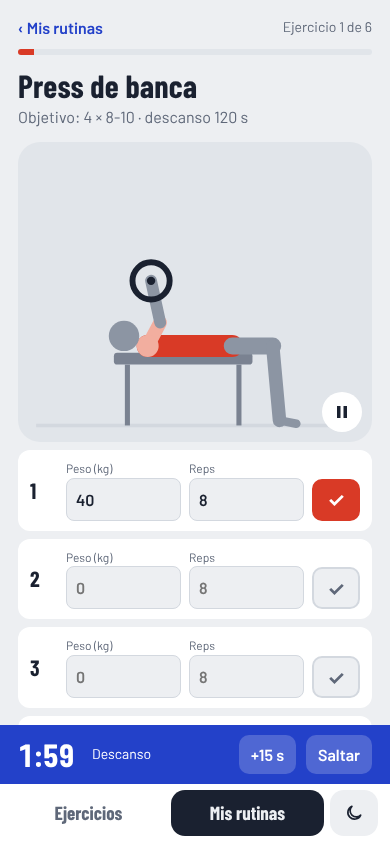
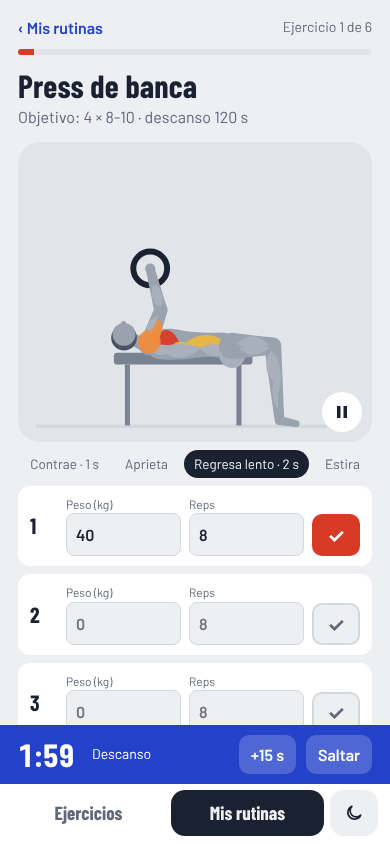
Entrega 2: figura humana animada, mapa del cuerpo más realista, ritmo guiado y video propio
Claude-Session: https://claude.ai/code/session_014wTSUvWtMSXUgSCxRBmyqL

diff --git a/www/index.html b/www/index.html
@@ -16,13 +16,13 @@
   --chalk:#EDEFF2; --paper:#FFFFFF; --plate:#E1E5EA; --ink:#1A2130; --steel:#5F6879;
   --line:#D3D8DF; --muscle:#D93A26; --muscle2:#F28C38; --body:#C3CAD4; --cobalt:#2341C9;
   --r-s:8px; --r-m:14px; --r-l:22px;
-  --muscle3:#EDB93C; --hover:#AEB6C2; --hoverp:#B92E1C; --dangerbg:#FBE5E1; --danger:#A3271A; --fig:#8C95A3; --prop:#7A8291;
+  --muscle3:#EDB93C; --hover:#AEB6C2; --hoverp:#B92E1C; --dangerbg:#FBE5E1; --danger:#A3271A; --fig:#9AA2AE; --figm:#A9B0BB; --hair:#4A5263; --prop:#7A8291;
   color-scheme:light;
 }
 [data-theme="dark"]{
   --chalk:#1C2028; --paper:#262B34; --plate:#2E343E; --ink:#E9ECF1; --steel:#9CA5B4;
   --line:#3B424E; --muscle:#F0533C; --muscle2:#D9782E; --body:#4A5261; --cobalt:#7089FF;
-  --muscle3:#B98A2A; --hover:#5D6676; --hoverp:#FF7560; --dangerbg:#3D2522; --danger:#FF9C8C; --fig:#6E7788; --prop:#8992A2;
+  --muscle3:#B98A2A; --hover:#5D6676; --hoverp:#FF7560; --dangerbg:#3D2522; --danger:#FF9C8C; --fig:#5F6878; --figm:#6A7384; --hair:#2A303A; --prop:#8992A2;
   color-scheme:dark;
 }
 *{box-sizing:border-box;margin:0;padding:0}
@@ -46,6 +46,8 @@ h1,h2,h3,.cond{font-family:"Barlow Condensed",sans-serif;letter-spacing:.005em}
 .map svg{width:100%;max-width:190px;height:auto;display:block}
 .map span{font-family:"Barlow Condensed";font-weight:600;font-size:15px;color:var(--steel);margin-top:2px}
 .b{fill:var(--body)}
+.b path{stroke:var(--plate);stroke-width:.5;stroke-linejoin:round}
+.m{stroke-linejoin:round}
 .m{fill:var(--body);stroke:var(--plate);stroke-width:.7;transition:fill .18s}
 .m.p{fill:var(--muscle)}
 .m.s{fill:var(--muscle2)}
@@ -73,6 +75,15 @@ h1,h2,h3,.cond{font-family:"Barlow Condensed",sans-serif;letter-spacing:.005em}
 .anim svg{width:100%;height:auto;display:block;max-height:300px}
 .anim .play{position:absolute;right:10px;bottom:10px;width:40px;height:40px;border-radius:50%;background:var(--paper);display:grid;place-items:center;color:var(--ink)}
 .anim .play svg{width:16px;height:16px}
+.tempo{display:flex;gap:6px;flex-wrap:wrap;justify-content:center;margin-top:8px}
+.tempo span{font-size:13.5px;padding:4px 10px;border-radius:999px;background:var(--chalk);color:var(--steel);transition:background .15s,color .15s}
+.tempo span.on{background:var(--ink);color:var(--chalk)}
+.anim video{width:100%;max-height:360px;border-radius:14px;display:block;background:#000}
+#vidbar{margin-top:10px;text-align:center}
+.vbtn{margin-top:0;cursor:pointer}
+.seg{display:inline-flex;background:var(--chalk);border-radius:12px;padding:3px}
+.seg button{padding:8px 16px;border-radius:10px;font-weight:600;color:var(--steel)}
+.seg button[aria-pressed="true"]{background:var(--paper);color:var(--ink)}
 .fig-note{font-size:13px;color:var(--steel);margin-top:6px;text-align:center}
 .m.hit:focus{outline:none}
 .m.hit:focus-visible{stroke:var(--cobalt);stroke-width:1.6}
@@ -432,14 +443,12 @@ const EXMAP=Object.fromEntries(EX.map(e=>[e.id,e]));
 const mir=s=>[s,s.replace(/^<(\w+)/,'<$1 transform="translate(100,0) scale(-1,1)"')];
 const P=d=>mir(`<path d="${d}"/>`);
 const E=(cx,cy,rx,ry,rot=0)=>mir(`<ellipse cx="${cx}" cy="${cy}" rx="${rx}" ry="${ry}"${rot?` transform="rotate(${rot} ${cx} ${cy})"`:''}/>`);
-const BASE=[
- '<ellipse cx="50" cy="12" rx="7.2" ry="8.6"/>','<rect x="45.5" y="18" width="9" height="10" rx="2"/>',
- '<path d="M37 27 Q50 24 63 27 L66.5 34 Q66 58 64 70 Q63 80 64 88 L36 88 Q37 80 36 70 Q34 58 33.5 34 Z"/>',
- '<path d="M36 86 L64 86 Q67.5 96 64.5 104 L50 110 L35.5 104 Q32.5 96 36 86 Z"/>',
- ...E(30,48,5.2,15,8),...E(26.2,73,4.4,12.5,6),...E(24,91,3.3,4.6),
- ...P('M35.6 98 Q34.6 120 38.3 141 L46.6 141 Q49.6 120 49.6 104 Z'),...E(42.4,144,4.7,4.6),
- ...P('M38 146 Q36.8 160 39.5 178 L44.8 178 Q47.6 160 47 146 Z'),...E(42.2,182.5,4.8,3)
-];
+// smooth anatomical silhouette (left half mirrored)
+function crPath(pts){let d=`M${pts[0][0]} ${pts[0][1]}`;for(let i=0;i<pts.length-1;i++){const p0=pts[i-1]||pts[i],p1=pts[i],p2=pts[i+1],p3=pts[i+2]||p2;
+  const c1=[p1[0]+(p2[0]-p0[0])/6,p1[1]+(p2[1]-p0[1])/6],c2=[p2[0]-(p3[0]-p1[0])/6,p2[1]-(p3[1]-p1[1])/6];d+=` C${c1[0].toFixed(2)} ${c1[1].toFixed(2)} ${c2[0].toFixed(2)} ${c2[1].toFixed(2)} ${p2[0]} ${p2[1]}`}return d}
+const HALF=[[50,19.6],[45.8,20.4],[45.3,26],[38.4,28.4],[32,30.6],[28.4,35.4],[26.8,44],[25.8,53.4],[24,62],[22.4,72],[21.6,83],[20.4,88.6],[21.2,94.6],[23.8,96.6],[25.8,94],[26.6,86],[28.6,76],[30.4,66],[32.2,57],[34.2,47.6],[35.4,41.6],[35.6,50],[36.6,62],[36.2,74],[35,84],[34.4,94],[35,108],[36.6,124],[38,138],[37.8,146],[37.4,156],[38.8,168],[39.6,177],[37.4,182],[37.2,185.4],[44.8,185.6],[45.4,180],[45.6,174],[46.8,162],[46.8,150],[46.4,142],[48.2,128],[49.2,114],[50,106.4]];
+const SIL=crPath(HALF)+' '+crPath(HALF.slice().reverse().map(([x,y])=>[100-x,y])).replace(/^M[^C]*/,'')+'Z';
+const BASE=['<ellipse cx="50" cy="11.6" rx="7" ry="8.6"/>',`<path d="${SIL}"/>`];
 const SHAPES={
  front:{
   trap_sup:P('M45.3 22 L45.8 28.4 L38.5 29.6 Z'),
@@ -528,6 +537,7 @@ const PAT={
  lunge:{v:'s',extra:[['hp','kn2','th'],['kn2','an2','sn'],['an2','ft2','ft']],A:{hd:[100,22],nk:[100,38],hp:[100,82],kn:[116,108],an:[122,138],ft:[132,140],kn2:[90,110],an2:[80,136],ft2:[72,140],el:[100,60],ha:[100,80]},B:{hd:[100,44],nk:[100,60],hp:[100,104],kn:[126,112],kn2:[98,134],an2:[72,134],ft2:[64,140],el:[100,82],ha:[100,102]}},
  hipthrust:{v:'s',A:{hd:[46,82],nk:[60,92],hp:[96,124],kn:[128,106],an:[134,138],ft:[144,140],el:[78,112],ha:[96,118]},B:{hd:[48,84],nk:[62,92],hp:[98,92],kn:[130,94],el:[80,94],ha:[98,86]},props:()=>bench(22,96,40)},
  abductor:{v:'f',A:{hd:[100,30],nk:[100,46],hp:[100,88],sL:[86,50],sR:[114,50],eL:[80,70],hL:[84,88],eR:[120,70],hR:[116,88],pL:[92,90],pR:[108,90],kL:[92,108],aL:[92,138],kR:[108,108],aR:[108,138]},B:{kL:[62,104],aL:[58,134],kR:[138,104],aR:[142,134]},props:()=>`<rect x="82" y="92" width="36" height="6" rx="2" fill="var(--prop)"/>`},
+ seatedcalf:{v:'s',A:{hd:[96,30],nk:[96,46],hp:[94,92],kn:[126,92],an:[128,128],ft:[140,130],el:[100,70],ha:[116,88]},B:{an:[129,121]},props:P=>bench(78,96,40)+`<rect x="118" y="${(P.kn[1]-12).toFixed(1)}" width="18" height="5" rx="2" fill="var(--prop)"/><rect x="128" y="130" width="22" height="4" fill="var(--prop)"/>`},
  toeraise:{v:'s',A:{...SB},B:{ft:[108,128]},props:()=>`<line x1="84" y1="0" x2="84" y2="141" stroke="var(--prop)" stroke-width="4"/>`},
  glutebridge:{v:'s',A:{hd:[44,132],nk:[60,134],hp:[100,134],kn:[128,108],an:[136,138],ft:[146,140],el:[80,140],ha:[98,140]},B:{nk:[60,132],hp:[100,106],kn:[130,104],el:[80,138],ha:[98,138]}},
  calf:{v:'s',A:{...SB},B:{hd:[100,15],nk:[100,31],hp:[100,75],kn:[100,103],an:[100,131],el:[100,53],ha:[100,73]},props:()=>`<rect x="104" y="141" width="30" height="6" fill="var(--prop)"/>`},
@@ -540,50 +550,207 @@ const PAT={
  twist:{v:'f',A:{hp:[100,104],pL:[92,104],pR:[108,104],kL:[80,86],aL:[70,112],kR:[120,86],aR:[130,112],hd:[84,42],nk:[90,58],sL:[78,62],sR:[102,56],eL:[74,80],hL:[72,96],eR:[92,80],hR:[78,96]},B:{hd:[116,42],nk:[110,58],sL:[98,56],sR:[122,62],eL:[108,80],hL:[122,96],eR:[126,80],hR:[128,96]}},
  woodchop:{v:'f',A:{...FB,nk:[104,36],hd:[106,20],sL:[90,38],sR:[118,42],eL:[118,22],hL:[140,8],eR:[130,30],hR:[144,10]},B:{nk:[96,38],hd:[94,22],sL:[84,42],sR:[110,38],eL:[80,64],hL:[66,88],eR:[84,66],hR:[70,90]},cable:[[192,-16]]}
 };
-const EXPAT={'press-banca':'bench','press-inclinado':'bench',aperturas:'fly',fondos:'dip',flexiones:'pushup','cruce-poleas':'cablefly',dominadas:'pullup',jalon:'pulldown','remo-barra':'rowbent','remo-mancuerna':'rowbent','remo-polea':'rowseat','peso-muerto':'deadlift',encogimientos:'shrug','press-militar':'ohp',laterales:'lateral',pajaros:'lateral','face-pull':'facepull','curl-barra':'curl','curl-martillo':'curl','curl-concentrado':'curl','triceps-polea':'pushdown','press-frances':'skull','patada-triceps':'kickback','curl-muneca':'wrist',sentadilla:'squat',prensa:'legpress',zancadas:'lunge','extension-cuad':'legext','curl-femoral':'legcurl','peso-muerto-rumano':'deadlift','hip-thrust':'hipthrust','aductores-maq':'adductor',talones:'calf',bulgara:'lunge',plancha:'plank',crunch:'crunch','elev-piernas':'hangleg','russian-twist':'twist',hiperextensiones:'hinge',lenador:'woodchop',goblet:'squat','sentadilla-libre':'squat','press-hombro-manc':'ohp','rumano-manc':'deadlift','puente-gluteo':'glutebridge','talones-sentado':'calf',abduccion:'abductor','elev-puntas':'toeraise'};
-const PART={to:['pec_sup','pec_inf','serrato','dorsal','recto','oblicuos','erectores','trap_sup','trap_med','romboides'],ua:['biceps','braquial','triceps'],la:['ante_flex','ante_ext'],th:['cuadriceps','isquios','gluteo_may','gluteo_med','aductores'],sn:['gemelos','soleo','tibial'],ft:['tibial']};
-const W={to:13,ua:8,la:7,th:10,sn:8,ft:5};
-function figSVG(ex,t){
-  const pat=PAT[EXPAT[ex.id]];
-  const P={};for(const k in pat.A){const a=pat.A[k],b=(pat.B[k]||a);P[k]=[a[0]+(b[0]-a[0])*t,a[1]+(b[1]-a[1])*t]}
-  const lv=ks=>ks.some(k=>ex.p.includes(k))?'var(--muscle)':ks.some(k=>ex.s.includes(k))?'var(--muscle2)':ks.some(k=>ex.e.includes(k))?'var(--muscle3)':null;
-  const col=part=>lv(PART[part])||'var(--fig)';
-  let o=`<svg viewBox="0 -22 200 168" role="img" aria-label="Animación de ${esc(ex.n)}"><line x1="6" y1="141" x2="194" y2="141" stroke="var(--line)" stroke-width="2"/>`;
+const EXPAT={'press-banca':'bench','press-inclinado':'bench',aperturas:'fly',fondos:'dip',flexiones:'pushup','cruce-poleas':'cablefly',dominadas:'pullup',jalon:'pulldown','remo-barra':'rowbent','remo-mancuerna':'rowbent','remo-polea':'rowseat','peso-muerto':'deadlift',encogimientos:'shrug','press-militar':'ohp',laterales:'lateral',pajaros:'lateral','face-pull':'facepull','curl-barra':'curl','curl-martillo':'curl','curl-concentrado':'curl','triceps-polea':'pushdown','press-frances':'skull','patada-triceps':'kickback','curl-muneca':'wrist',sentadilla:'squat',prensa:'legpress',zancadas:'lunge','extension-cuad':'legext','curl-femoral':'legcurl','peso-muerto-rumano':'deadlift','hip-thrust':'hipthrust','aductores-maq':'adductor',talones:'calf',bulgara:'lunge',plancha:'plank',crunch:'crunch','elev-piernas':'hangleg','russian-twist':'twist',hiperextensiones:'hinge',lenador:'woodchop',goblet:'squat','sentadilla-libre':'squat','press-hombro-manc':'ohp','rumano-manc':'deadlift','puente-gluteo':'glutebridge','talones-sentado':'seatedcalf',abduccion:'abductor','elev-puntas':'toeraise'};
+/* ---------- Human figure engine ---------- */
+const CON_A=['squat','pushup','dip','lunge','fly','legpress'];
+const FACE_DOWN=['pushup','plank','legcurl','hinge'];
+const CHAINS_S=[['nk','el','ha'],['hp','kn','an'],['hp','kn2','an2']],TIPS_S=[['nk','hd'],['an','ft'],['an2','ft2'],['ha','tp']];
+const CHAINS_F=[['sL','eL','hL'],['sR','eR','hR'],['pL','kL','aL'],['pR','kR','aR']],TIPS_F=[['nk','hd']];
+const V={add:(a,b)=>[a[0]+b[0],a[1]+b[1]],sub:(a,b)=>[a[0]-b[0],a[1]-b[1]],mul:(a,k)=>[a[0]*k,a[1]*k],len:a=>Math.hypot(a[0],a[1]),ang:a=>Math.atan2(a[1],a[0]),lerp:(a,b,t)=>[a[0]+(b[0]-a[0])*t,a[1]+(b[1]-a[1])*t],pol:(a,l)=>[Math.cos(a)*l,Math.sin(a)*l],cross:(a,b)=>a[0]*b[1]-a[1]*b[0]};
+const same=(a,b)=>Math.abs(a[0]-b[0])<.01&&Math.abs(a[1]-b[1])<.01;
+function angLerp(a,b,t){let d=b-a;while(d>Math.PI)d-=2*Math.PI;while(d<-Math.PI)d+=2*Math.PI;return a+d*t}
+function pose(pat,t){
+  const A=pat.A,B={...pat.A,...pat.B},P={},f=pat.v==='f';
+  const chains=f?CHAINS_F:CHAINS_S,tips=f?TIPS_F:TIPS_S,dep=new Set();
+  chains.forEach(c=>{if(A[c[1]]){dep.add(c[1]);dep.add(c[2])}});tips.forEach(([p,c])=>{if(A[c])dep.add(c)});
+  for(const k in A) if(!dep.has(k)) P[k]=V.lerp(A[k],B[k],t);
+  if(!f&&A.hp&&A.nk){ // keep the torso length
+    const L=(V.len(V.sub(A.nk,A.hp))+V.len(V.sub(B.nk,B.hp)))/2,a=angLerp(V.ang(V.sub(A.nk,A.hp)),V.ang(V.sub(B.nk,B.hp)),t);
+    if(same(A.hp,B.hp))P.nk=V.add(P.hp,V.pol(a,L));
+    else if(same(A.nk,B.nk))P.hp=V.sub(P.nk,V.pol(a,L));
+    else{const c=V.lerp(V.lerp(A.hp,A.nk,.5),V.lerp(B.hp,B.nk,.5),t);P.hp=V.sub(c,V.pol(a,L/2));P.nk=V.add(c,V.pol(a,L/2))}
+  }
+  chains.forEach(([r,m,e])=>{
+    if(!A[m])return;
+    const L1=(V.len(V.sub(A[m],A[r]))+V.len(V.sub(B[m],B[r])))/2,L2=(V.len(V.sub(A[e],A[m]))+V.len(V.sub(B[e],B[m])))/2,R=P[r];
+    if(same(A[m],B[m])&&same(A[r],B[r])){P[m]=V.add(R,V.sub(A[m],A[r]));const a=angLerp(V.ang(V.sub(A[e],A[m])),V.ang(V.sub(B[e],B[m])),t);P[e]=V.add(P[m],V.pol(a,L2));return}
+    let E=V.lerp(A[e],B[e],t);
+    const cA=V.cross(V.sub(A[e],A[r]),V.sub(A[m],A[r])),cB=V.cross(V.sub(B[e],B[r]),V.sub(B[m],B[r]));
+    const s=(Math.abs(cA)>=Math.abs(cB)?cA:cB)>=0?1:-1;
+    let d=V.sub(E,R),D=V.len(d)||.01;const Dc=Math.min(Math.max(D,Math.abs(L1-L2)+.05),L1+L2-.05);
+    if(Dc!==D){E=V.add(R,V.mul(d,Dc/D));d=V.sub(E,R);D=Dc}
+    const A1=Math.acos(Math.max(-1,Math.min(1,(L1*L1+D*D-L2*L2)/(2*L1*D))));
+    P[m]=V.add(R,V.pol(V.ang(d)+s*A1,L1));P[e]=E;
+  });
+  tips.forEach(([p,c])=>{if(!A[c])return;const L=(V.len(V.sub(A[c],A[p]))+V.len(V.sub(B[c],B[p])))/2,a=angLerp(V.ang(V.sub(A[c],A[p])),V.ang(V.sub(B[c],B[p])),t);P[c]=V.add(P[p],V.pol(a,L))});
+  return P;
+}
+const fx=n=>n.toFixed(1),pt=p=>fx(p[0])+' '+fx(p[1]);
+const perp=(a,b)=>{const d=V.sub(b,a),l=V.len(d)||1;return[d[1]/l,-d[0]/l]};
+function limb(a,b,wa,wb,fill,extra=''){
+  const n=perp(a,b),a1=V.add(a,V.mul(n,wa)),a2=V.sub(a,V.mul(n,wa)),b1=V.add(b,V.mul(n,wb)),b2=V.sub(b,V.mul(n,wb));
+  return `<path d="M${pt(a1)} L${pt(b1)} A${fx(wb)} ${fx(wb)} 0 0 1 ${pt(b2)} L${pt(a2)} A${fx(wa)} ${fx(wa)} 0 0 1 ${pt(a1)}Z" fill="${fill}"${extra}/>`;
+}
+// muscle belly on one side of a segment (side = +1 front, -1 back, 0 centered)
+function belly(a,b,f0,f1,w0,w1,side,bulge,fill,op=1){
+  const n=V.mul(perp(a,b),side||1),w=f=>w0+(w1-w0)*f;
+  if(!side){const c=V.lerp(a,b,(f0+f1)/2),L=V.len(V.sub(b,a))*(f1-f0)/2,ang=V.ang(V.sub(b,a))*180/Math.PI;
+    return `<ellipse cx="${fx(c[0])}" cy="${fx(c[1])}" rx="${fx(L)}" ry="${fx(w((f0+f1)/2)*.62+bulge*.5)}" transform="rotate(${fx(ang)} ${fx(c[0])} ${fx(c[1])})" fill="${fill}" opacity="${op}"/>`}
+  const at=(f,k)=>V.add(V.lerp(a,b,f),V.mul(n,k));
+  const P0=at(f0,w(f0)*.15),P1=at(f1,w(f1)*.15),fa=f0+(f1-f0)*.28,fb=f0+(f1-f0)*.72;
+  const C1=at(fa,w(fa)+bulge),C2=at(fb,w(fb)+bulge),I2=at(fb,-w(fb)*.25),I1=at(fa,-w(fa)*.25);
+  return `<path d="M${pt(P0)} C${pt(C1)} ${pt(C2)} ${pt(P1)} C${pt(I2)} ${pt(I1)} ${pt(P0)}Z" fill="${fill}" opacity="${op}"/>`;
+}
+function smoothClosed(ps){
+  const m=(a,b)=>[(a[0]+b[0])/2,(a[1]+b[1])/2];let d=`M${pt(m(ps[ps.length-1],ps[0]))}`;
+  ps.forEach((p,i)=>{d+=` Q${pt(p)} ${pt(m(p,ps[(i+1)%ps.length]))}`});return d+'Z';
+}
+const circ=(c,r,fill,op=1)=>`<circle cx="${fx(c[0])}" cy="${fx(c[1])}" r="${fx(r)}" fill="${fill}" opacity="${op}"/>`;
+function figSVG(ex,ph){
+  const key=EXPAT[ex.id],pat=PAT[key],P=pose(pat,ph.t),face=FACE_DOWN.includes(key)?-1:1;
+  const lvl=ks=>ks.some(k=>ex.p.includes(k))?3:ks.some(k=>ex.s.includes(k))?2:ks.some(k=>ex.e.includes(k))?1:0;
+  const FILL=['var(--figm)','var(--muscle3)','var(--muscle2)','var(--muscle)'];
+  // m(): fill, opacity and extra bulge for a group of muscles
+  const m=ks=>{const l=lvl(ks);return{f:FILL[l],o:l===3?.62+.38*ph.c:l?.9:1,b:l===3?1+1.1*ph.c:l===2?.5+.4*ph.c:0}};
+  let o=`<svg viewBox="0 -22 200 168" role="img" aria-label="Animación de ${esc(ex.n)}"><line x1="6" y1="141.5" x2="194" y2="141.5" stroke="var(--line)" stroke-width="2"/>`;
   if(pat.props) o+=pat.props(P);
   const hands=pat.v==='f'?['hL','hR']:[pat.hand||'ha'];
-  if(pat.cable) pat.cable.forEach((a,i)=>{const h=P[hands[Math.min(i,hands.length-1)]];o+=`<line x1="${a[0]}" y1="${a[1]}" x2="${h[0]}" y2="${h[1]}" stroke="var(--prop)" stroke-width="1.6"/><circle cx="${a[0]}" cy="${a[1]}" r="4" fill="var(--prop)"/>`});
-  const segs=(pat.v==='f'?FRONT:SIDE).concat(pat.extra||[]);
-  const order=['to','th','sn','ft','ua','la'];
-  segs.slice().sort((a,b)=>order.indexOf(a[2])-order.indexOf(b[2])).forEach(([a,b,part])=>{
-    o+=`<line x1="${P[a][0].toFixed(1)}" y1="${P[a][1].toFixed(1)}" x2="${P[b][0].toFixed(1)}" y2="${P[b][1].toFixed(1)}" stroke="${col(part)}" stroke-width="${W[part]}" stroke-linecap="round"/>`});
-  const sh=pat.v==='f'?['sL','sR']:['nk'],hp=pat.v==='f'?['pL','pR']:['hp'];
-  const cs=lv(['delt_ant','delt_lat','delt_post']),cg=lv(['gluteo_may','gluteo_med']);
-  if(cs) sh.forEach(k=>o+=`<circle cx="${P[k][0]}" cy="${P[k][1]}" r="6.5" fill="${cs}"/>`);
-  if(cg) hp.forEach(k=>o+=`<circle cx="${P[k][0]}" cy="${P[k][1]}" r="7.5" fill="${cg}"/>`);
-  o+=`<circle cx="${P.hd[0]}" cy="${P.hd[1]}" r="9" fill="var(--fig)"/>`;
+  if(pat.cable) pat.cable.forEach((a,i)=>{const h=P[hands[Math.min(i,hands.length-1)]];o+=`<line x1="${a[0]}" y1="${a[1]}" x2="${fx(h[0])}" y2="${fx(h[1])}" stroke="var(--prop)" stroke-width="1.6"/><circle cx="${a[0]}" cy="${a[1]}" r="4" fill="var(--prop)"/>`});
+  const SK='var(--fig)';
   hands.slice(0,ex.id==='russian-twist'?1:2).forEach(k=>{const [x,y]=P[k];
-    if(ex.eq==='Barra') o+=`<circle cx="${x}" cy="${y}" r="11" fill="none" stroke="var(--ink)" stroke-width="3.5"/><circle cx="${x}" cy="${y}" r="2.5" fill="var(--ink)"/>`;
-    else if(ex.eq==='Mancuernas'||ex.id==='russian-twist') o+=`<rect x="${x-7}" y="${y-3.5}" width="14" height="7" rx="3" fill="var(--ink)"/>`;
+    if(ex.eq==='Barra') o+=`<circle cx="${fx(x)}" cy="${fx(y)}" r="10" fill="none" stroke="var(--ink)" stroke-width="3.5"/><circle cx="${fx(x)}" cy="${fx(y)}" r="2.5" fill="var(--ink)"/>`;
+    else if(ex.eq==='Mancuernas'||ex.id==='russian-twist') o+=pat.v==='f'?`<rect x="${fx(x-2)}" y="${fx(y-7.5)}" width="4" height="15" rx="1.5" fill="var(--ink)"/>`:`<circle cx="${fx(x)}" cy="${fx(y)}" r="5.6" fill="none" stroke="var(--ink)" stroke-width="3"/>`;
   });
+  if(pat.v!=='f'){
+    const nk=P.nk,hp=P.hp,n=V.mul(perp(nk,hp),face),sp=f=>V.lerp(nk,hp,f);
+    const leg=(kn,an,ft,far)=>{const op=far?' opacity=".55"':'';let s=limb(hp,P[kn],7.8,5,SK,op)+limb(P[kn],P[an],5,2.8,SK,op)+limb(P[an],P[ft],2.9,1.9,SK,op);
+      if(!far){
+        let q=m(['cuadriceps']);s+=belly(hp,P[kn],.12,.9,7.8,5,face,q.b+.8,q.f,q.o);
+        q=m(['isquios']);s+=belly(hp,P[kn],.18,.92,7.8,5,-face,q.b+.3,q.f,q.o);
+        q=m(['aductores']);if(lvl(['aductores']))s+=belly(hp,P[kn],.15,.6,4,3,0,q.b,q.f,q.o);
+        q=m(['tibial']);s+=belly(P[kn],P[an],.1,.65,5,2.8,face,q.b*.6,q.f,q.o);
+        q=m(['gemelos']);s+=belly(P[kn],P[an],.05,.5,5,2.8,-face,q.b+1.8,q.f,q.o);
+        q=m(['soleo']);s+=belly(P[kn],P[an],.45,.85,4.2,2.8,-face,q.b*.6+.3,q.f,q.o);}
+      return s};
+    if(P.kn2) o+=leg('kn2','an2','ft2',true);
+    // trunk
+    const F=[[0,6],[.1,9.6],[.28,10.6],[.5,8.2],[.75,7.8],[1,8.2]],Bk=[[1,8],[.72,5.8],[.42,8],[.15,8.2],[0,5.6]];
+    const pts=F.map(([f,w])=>V.add(sp(f),V.mul(n,w))).concat(Bk.map(([f,w])=>V.sub(sp(f),V.mul(n,w))));
+    o+=`<path d="${smoothClosed(pts)}" fill="${SK}"/>`;
+    let q;
+    q=m(['pec_sup','pec_inf']);o+=belly(nk,hp,.06,.38,9,10,face,q.b+1.1,q.f,q.o);
+    q=m(['recto']);o+=belly(nk,hp,.44,.94,7.8,8,face,q.b*.5+.3,q.f,q.o);
+    q=m(['oblicuos']);if(lvl(['oblicuos']))o+=belly(nk,hp,.5,.9,3,3,0,q.b*.5,q.f,q.o);
+    q=m(['serrato']);if(lvl(['serrato']))o+=belly(nk,hp,.3,.48,4,4,0,q.b*.4,q.f,q.o);
+    q=m(['dorsal']);o+=belly(nk,hp,.14,.62,8,7,-face,q.b+1.1,q.f,q.o);
+    q=m(['trap_med','romboides']);o+=belly(nk,hp,.0,.3,6,8,-face,q.b+.6,q.f,q.o);
+    q=m(['erectores']);o+=belly(nk,hp,.62,.97,5.8,7.6,-face,q.b*.6+.3,q.f,q.o);
+    q=m(['gluteo_may','gluteo_med']);o+=circ(V.sub(hp,V.mul(n,5.4)),7.6+q.b*.6,q.f,q.o);
+    // neck + head
+    const hd=P.hd,up=V.mul(perp(hp,nk),-face);o+=limb(nk,V.lerp(nk,hd,.6),4.2,3.6,SK);
+    q=m(['trap_sup']);o+=belly(nk,hd,.0,.5,3.4,3,-face,q.b+1.3,q.f,q.o);
+    o+=circ(V.sub(hd,V.mul(n,1.1)),7.6,'var(--hair)')+circ(V.add(hd,V.mul(n,.9)),6.8,SK)+circ(V.add(V.add(hd,V.mul(n,7.2)),V.mul(V.sub(hd,nk),.02)),1.5,SK);
+    o+=leg('kn','an','ft',false);
+    // arm (in front of the trunk)
+    const el=P.el,ha=P.ha;o+=limb(nk,el,5.2,3.9,SK)+limb(el,ha,3.9,2.6,SK);
+    q=m(['biceps','braquial']);o+=belly(nk,el,.2,.85,5.2,3.9,face,q.b+1.1,q.f,q.o);
+    q=m(['triceps']);o+=belly(nk,el,.12,.78,5.2,3.9,-face,q.b+.9,q.f,q.o);
+    q=m(['ante_flex']);o+=belly(el,ha,.08,.62,3.9,2.6,face,q.b*.6+.4,q.f,q.o);
+    q=m(['ante_ext']);o+=belly(el,ha,.08,.62,3.9,2.6,-face,q.b*.6+.4,q.f,q.o);
+    q=m(['delt_ant','delt_lat','delt_post']);o+=circ(V.lerp(nk,el,.12),6.4+q.b*.5,q.f,q.o);
+    if(P.tp)o+=limb(ha,P.tp,2.3,1.6,SK);
+    o+=circ(ha,3,SK);
+  } else {
+    const top=V.lerp(P.sL,P.sR,.5),bot=V.lerp(P.pL,P.pR,.5),u0=V.sub(P.sR,P.sL),u1=V.sub(P.pR,P.pL);
+    const sw=V.len(u0)/2,hw=V.len(u1)/2,uu=f=>{const u=V.lerp(V.mul(u0,1/(2*sw)),V.mul(u1,1/(2*hw)),f);const l=V.len(u);return[u[0]/l,u[1]/l]};
+    const c=f=>V.lerp(top,bot,f),W=[[0,sw+2.4],[.18,sw+2.8],[.45,hw+1.4],[.66,hw+.2],[1,hw+2.6]];
+    const right=W.map(([f,w])=>V.add(c(f),V.mul(uu(f),w))),left=W.slice().reverse().map(([f,w])=>V.sub(c(f),V.mul(uu(f),w)));
+    const legF=(p,k,a)=>limb(P[p],P[k],6.8,4.6,SK)+limb(P[k],P[a],4.6,2.6,SK)+`<ellipse cx="${fx(P[a][0])}" cy="${fx(P[a][1]+2)}" rx="3.4" ry="2" fill="${SK}"/>`;
+    o+=legF('pL','kL','aL')+legF('pR','kR','aR');
+    let q;
+    ['L','R'].forEach(s=>{const p=P['p'+s],k=P['k'+s],a=P['a'+s];
+      q=m(['cuadriceps']);o+=belly(p,k,.12,.88,6.8,4.6,0,q.b+1,q.f,q.o);
+      q=m(['aductores']);if(lvl(['aductores']))o+=belly(V.lerp(p,bot,.5),V.lerp(k,bot,.25),.05,.7,2.6,2,0,q.b*.5,q.f,q.o);
+      q=m(['tibial']);if(lvl(['tibial']))o+=belly(k,a,.1,.6,3,2.2,0,q.b*.4,q.f,q.o)});
+    o+=`<path d="${smoothClosed(right.concat(left))}" fill="${SK}"/>`;
+    o+=limb(P.nk,V.lerp(P.nk,P.hd,.55),4,3.6,SK)+circ(P.hd,7.4,SK)+`<path d="M${fx(P.hd[0]-7.4)} ${fx(P.hd[1]-.5)} A7.4 7.4 0 0 1 ${fx(P.hd[0]+7.4)} ${fx(P.hd[1]-.5)} Q${fx(P.hd[0])} ${fx(P.hd[1]-5)} ${fx(P.hd[0]-7.4)} ${fx(P.hd[1]-.5)}Z" fill="var(--hair)"/>`;
+    const ang=V.ang(u0)*180/Math.PI;
+    q=m(['pec_sup','pec_inf']);[-1,1].forEach(s=>{const cc=V.add(c(.2),V.mul(uu(.2),s*sw*.48));o+=`<ellipse cx="${fx(cc[0])}" cy="${fx(cc[1])}" rx="${fx(sw*.5+q.b*.3)}" ry="${fx(4.4+q.b*.4)}" transform="rotate(${fx(ang)} ${fx(cc[0])} ${fx(cc[1])})" fill="${q.f}" opacity="${q.o}"/>`});
+    q=m(['recto']);o+=belly(c(.36),c(.96),0,1,3.4,3.4,0,q.b*.4,q.f,q.o);
+    q=m(['oblicuos']);[-1,1].forEach(s=>{o+=belly(V.add(c(.4),V.mul(uu(.4),s*(hw-1.5))),V.add(c(.85),V.mul(uu(.85),s*(hw-1.5))),0,1,1.8,1.8,0,q.b*.4,q.f,q.o)});
+    q=m(['gluteo_med']);if(lvl(['gluteo_med']))[-1,1].forEach(s=>{o+=circ(V.add(bot,V.mul(uu(1),s*(hw+.6))),3.4+q.b*.4,q.f,q.o)});
+    q=m(['trap_sup']);if(lvl(['trap_sup']))[-1,1].forEach(s=>{o+=belly(P.nk,V.add(top,V.mul(uu(0),s*sw*.8)),.1,.9,2.2,2.2,0,q.b*.6,q.f,q.o)});
+    ['L','R'].forEach(s=>{const sh=P['s'+s],e=P['e'+s],h=P['h'+s];
+      o+=limb(sh,e,4.6,3.6,SK)+limb(e,h,3.6,2.4,SK);
+      q=m(['biceps','braquial']);o+=belly(sh,e,.2,.85,4.6,3.6,0,q.b+.7,q.f,q.o);
+      q=m(['ante_flex','ante_ext']);o+=belly(e,h,.08,.62,3.6,2.4,0,q.b*.5+.3,q.f,q.o);
+      q=m(['delt_ant','delt_lat','delt_post']);o+=circ(V.lerp(sh,e,.1),5.6+q.b*.5,q.f,q.o);
+      o+=circ(h,2.5,SK)});
+  }
   return o+'</svg>';
 }
-let anim={raf:0,paused:false,t0:0,off:0,ex:null};
+/* ---------- Animation loop with guided tempo ---------- */
+const TEMPO=['Contrae · 1 s','Aprieta','Regresa lento · 2 s','Estira'];
+let anim={raf:0,paused:false,t0:0,off:0,ex:null,lab:-1};
 const reduceMotion=matchMedia('(prefers-reduced-motion: reduce)').matches;
 const PLAY='<svg viewBox="0 0 16 16"><path d="M4 2l10 6-10 6z" fill="currentColor"/></svg>',PAUSE='<svg viewBox="0 0 16 16"><rect x="3" y="2" width="3.5" height="12" fill="currentColor"/><rect x="9.5" y="2" width="3.5" height="12" fill="currentColor"/></svg>';
-function phase(now){const d=(PAT[EXPAT[anim.ex.id]].dur||2600);return (1-Math.cos(2*Math.PI*((now-anim.t0+anim.off)%d)/d))/2}
+const ease=u=>u<.5?2*u*u:1-Math.pow(-2*u+2,2)/2;
+function phase(now){
+  const key=EXPAT[anim.ex.id],d=PAT[key].dur||3600,x=((now-anim.t0+anim.off)%d)/d;
+  if(key==='plank'){const c=.75+.25*Math.sin(x*2*Math.PI);return{t:.5+.5*Math.sin(x*2*Math.PI),c,lab:4}}
+  let c,lab;
+  if(x<.25){c=ease(x/.25);lab=0}else if(x<.36){c=1;lab=1}else if(x<.86){c=1-ease((x-.36)/.5);lab=2}else{c=0;lab=3}
+  return{t:CON_A.includes(key)?1-c:c,c,lab};
+}
+function drawFrame(now){
+  const b=$('#fig');if(!b)return false;const ph=phase(now);b.innerHTML=figSVG(anim.ex,ph);
+  if(ph.lab!==anim.lab){anim.lab=ph.lab;const tb=$('#tempo');if(tb)tb.innerHTML=ph.lab===4?'<span class="on">Aguanta la posición respirando normal</span>':TEMPO.map((s,i)=>`<span class="${i===ph.lab?'on':''}">${s}</span>`).join('')}
+  return true;
+}
 function startAnim(ex){
-  stopAnim();anim.ex=ex;anim.paused=reduceMotion;anim.t0=performance.now();anim.off=0;
-  const box=$('#fig');if(!box)return;
-  if(anim.paused){box.innerHTML=figSVG(ex,1);updPlay();return}
-  const loop=now=>{const b=$('#fig');if(!b)return;b.innerHTML=figSVG(ex,phase(now));anim.raf=requestAnimationFrame(loop)};
+  stopAnim();anim.ex=ex;anim.paused=reduceMotion;anim.t0=performance.now();anim.off=0;anim.lab=-1;
+  if(!$('#fig'))return;
+  if(anim.paused){anim.off=PAT[EXPAT[ex.id]].dur*.3||1000;drawFrame(anim.t0);updPlay();return}
+  const loop=now=>{if(drawFrame(now))anim.raf=requestAnimationFrame(loop)};
   anim.raf=requestAnimationFrame(loop);updPlay();
 }
 function stopAnim(){cancelAnimationFrame(anim.raf);anim.raf=0}
 function updPlay(){const b=$('#playbtn');if(b){b.innerHTML=anim.paused?PLAY:PAUSE;b.setAttribute('aria-label',anim.paused?'Reproducir animación':'Pausar animación')}}
 function togglePlay(){
-  if(anim.paused){anim.paused=false;anim.t0=performance.now();const loop=now=>{const b=$('#fig');if(!b)return;b.innerHTML=figSVG(anim.ex,phase(now));anim.raf=requestAnimationFrame(loop)};anim.raf=requestAnimationFrame(loop)}
+  if(anim.paused){anim.paused=false;anim.t0=performance.now();const loop=now=>{if(drawFrame(now))anim.raf=requestAnimationFrame(loop)};anim.raf=requestAnimationFrame(loop)}
   else{anim.paused=true;anim.off+=performance.now()-anim.t0;stopAnim()}
   updPlay();
+}
+
+/* ---------- Own videos (IndexedDB, only on this phone) ---------- */
+const VDB={db:null,
+  open(){return new Promise((res,rej)=>{if(this.db)return res(this.db);const r=indexedDB.open('gym-mapa-videos',1);r.onupgradeneeded=()=>r.result.createObjectStore('v');r.onsuccess=()=>{this.db=r.result;res(this.db)};r.onerror=()=>rej(r.error)})},
+  async tx(mode,fn){const db=await this.open();return new Promise((res,rej)=>{const q=fn(db.transaction('v',mode).objectStore('v'));q.onsuccess=()=>res(q.result);q.onerror=()=>rej(q.error)})},
+  get(k){return this.tx('readonly',s=>s.get(k))},put(k,v){return this.tx('readwrite',s=>s.put(v,k))},del(k){return this.tx('readwrite',s=>s.delete(k))}
+};
+let vidUrl=null;
+async function renderVidbar(exId,mode,confirmDel){
+  const bar=$('#vidbar');if(!bar)return;let has=false;
+  try{has=!!(await VDB.get(exId))}catch(e){bar.innerHTML='';return}
+  if(S.sheetEx!==exId)return;
+  if(has&&confirmDel){bar.innerHTML=`<div class="confirm" style="margin-top:0"><p>¿Quitar tu video de este ejercicio?</p><div class="row2"><button class="btn ghost" data-act="vdelno">Cancelar</button><button class="btn danger" data-act="vdelyes">Quitar video</button></div></div>`;return}
+  bar.innerHTML=has?`<div class="seg" role="group" aria-label="Qué mostrar"><button data-vmode="anim" aria-pressed="${mode!=='video'}">Animación</button><button data-vmode="video" aria-pressed="${mode==='video'}">Mi video</button></div><button class="linkbtn" data-act="vdel" style="display:block;margin:8px auto 0">Quitar mi video</button>`
+   :`<label class="btn ghost vbtn">+ Añadir mi video<input type="file" accept="video/*" id="vfile" hidden></label><p class="sub" style="font-size:13.5px;margin-top:4px">Graba o elige un video de tu galería. Se guarda solo en este teléfono.</p>`;
+  const f=$('#vfile');if(f)f.onchange=async()=>{const file=f.files[0];if(!file)return;
+    if(file.size>200*1024*1024){toast('El video pesa demasiado (máximo 200 MB)');return}
+    try{await VDB.put(exId,file);toast('Video guardado');showVideo(exId)}catch(e){toast('No se pudo guardar el video. Revisa el espacio del teléfono.')}};
+}
+async function showVideo(exId){
+  let blob=null;try{blob=await VDB.get(exId)}catch(e){}
+  if(!blob||S.sheetEx!==exId)return;stopAnim();
+  if(vidUrl)URL.revokeObjectURL(vidUrl);vidUrl=URL.createObjectURL(blob);
+  $('#animbox').innerHTML=`<video src="${vidUrl}" controls loop playsinline muted autoplay></video>`;$('#tempo').style.display='none';
+  renderVidbar(exId,'video');
+}
+function showAnimMode(exId){
+  $('#animbox').innerHTML='<div id="fig"></div><button class="play" id="playbtn" data-act="play"></button>';$('#tempo').style.display='';
+  if(vidUrl){URL.revokeObjectURL(vidUrl);vidUrl=null}
+  startAnim(EXMAP[exId]);renderVidbar(exId,'anim');
 }
 
 /* ---------- Theme ---------- */
@@ -790,6 +957,7 @@ function renderWorkout(){
   <h2>${esc(e.n)}</h2>
   <p class="target">Objetivo: ${esc(it.sets)} × ${esc(it.reps)} · descanso ${esc(it.rest)} s</p>
   <div class="anim"><div id="fig"></div><button class="play" id="playbtn" data-act="play"></button></div>
+  <div class="tempo" id="tempo" aria-live="off"></div>
   <div id="sets">${sets.map((s,j)=>`<div class="setrow ${s.done?'done':''}" data-j="${j}">
     <span class="n">${j+1}</span>
     <span><label for="w${j}">Peso (kg)</label><input id="w${j}" data-sf="w" inputmode="decimal" value="${esc(s.w)}" placeholder="0"></span>
@@ -938,13 +1106,14 @@ function histHTML(exId){
 
 /* ---------- Sheets ---------- */
 function openSheet(html){const s=$('#sheet');s.innerHTML=`<div class="grab"></div><button class="close" data-act="close" aria-label="Cerrar">×</button><div class="wrap">${html}</div>`;s.classList.add('open');$('#scrim').classList.add('open');s.scrollTop=0;setTimeout(()=>s.querySelector('.close').focus(),50)}
-function closeSheet(){stopAnim();$('#sheet').classList.remove('open');$('#scrim').classList.remove('open')}
+function closeSheet(){stopAnim();S.sheetEx=null;if(vidUrl){URL.revokeObjectURL(vidUrl);vidUrl=null}$('#sheet').classList.remove('open');$('#scrim').classList.remove('open')}
 const mchips=ks=>ks.length?`<div class="mlist">${ks.map(k=>`<button data-msheet="${k}">${MUSCLES[k]}</button>`).join('')}</div>`:`<p class="sub" style="font-size:15px;margin-top:4px">Ninguno</p>`;
 function exSheet(id){
   const e=EXMAP[id];
   openSheet(`<h2>${esc(e.n)}</h2><p class="eq">${esc(e.eq)}</p>
-  <div class="anim"><div id="fig"></div><button class="play" id="playbtn" data-act="play"></button></div>
-  <p class="fig-note">El color muestra cómo participa cada músculo</p>
+  <div class="anim" id="animbox"><div id="fig"></div><button class="play" id="playbtn" data-act="play"></button></div>
+  <div class="tempo" id="tempo" aria-live="off"></div>
+  <div id="vidbar"></div>
   <div class="plate">${bothMaps(e.p,e.s,e.e)}${LEG3}</div>
   <div class="mus3">
     <div><h3><i style="background:var(--muscle)"></i>Principal</h3>${mchips(e.p)}</div>
@@ -956,10 +1125,10 @@ function exSheet(id){
   ${e.er.length?`<div class="errs"><h3>Errores comunes</h3><ul>${e.er.map(x=>`<li>${esc(x)}</li>`).join('')}</ul></div>`:''}
   <button class="btn" data-addto="${e.id}">Añadir a una rutina</button>
   ${histHTML(e.id)}`);
-  startAnim(e);
+  S.sheetEx=e.id;startAnim(e);renderVidbar(e.id,'anim');
 }
 function muscleSheet(k){
-  stopAnim();
+  stopAnim();S.sheetEx=null;
   const m=MUS[k],main=EX.filter(e=>e.p.includes(k)),help=EX.filter(e=>e.s.includes(k));
   const row=e=>`<button class="row" data-ex="${e.id}"><span class="dot">${bodySVG(sideOf(e.p[0]),e.p,e.s,false,true,e.e)}</span><span><b>${esc(e.n)}</b><small>${esc(e.eq)}</small></span><span class="chev" aria-hidden="true">›</span></button>`;
   openSheet(`<p class="qstep">${GROUPS[m.g]}</p><h2>${m.n}</h2>
@@ -1007,6 +1176,7 @@ document.addEventListener('click',ev=>{
   const t=ev.target.closest('button,[data-muscle]');if(!t) return;
   const d=t.dataset;
   if(d.tab){S.tab=d.tab;S.confirmDel=false;closeSheet();render();scrollTo(0,0);return}
+  if(d.vmode){if(d.vmode==='video')showVideo(S.sheetEx);else showAnimMode(S.sheetEx);return}
   if(d.msheet){muscleSheet(d.msheet);return}
   if(d.filter){closeSheet();S.tab='ex';S.muscle=d.filter;S.q='';render();scrollTo(0,0);return}
   if(d.muscle!==undefined){S.muscle=S.muscle===d.muscle?null:d.muscle;render();return}
@@ -1043,6 +1213,9 @@ document.addEventListener('click',ev=>{
     case 't15':T.end=Math.max(T.end,Date.now())+15000;$('#timer').classList.remove('end');if(!T.int){T.int=setInterval(tick,250)}tick();break;
     case 'tskip':stopTimer();break;
     case 'play':togglePlay();break;
+    case 'vdel':renderVidbar(S.sheetEx,'video',true);break;
+    case 'vdelno':renderVidbar(S.sheetEx,'video');break;
+    case 'vdelyes':{const id=S.sheetEx;VDB.del(id).then(()=>{toast('Video quitado');showAnimMode(id)}).catch(()=>toast('No se pudo quitar el video'));break}
     case 'theme':{const t=document.documentElement.dataset.theme==='dark'?'light':'dark';applyTheme(t);try{localStorage.setItem(TKEY,t)}catch(e){}break}
     case 'new':{const id=newId();S.routines[id]={id,name:'',items:[],updated:Date.now()};persist(id);S.editing=id;render();setTimeout(()=>$('#rname').focus(),50);break}
     case 'back':S.editing=null;S.confirmDel=false;render();break;
